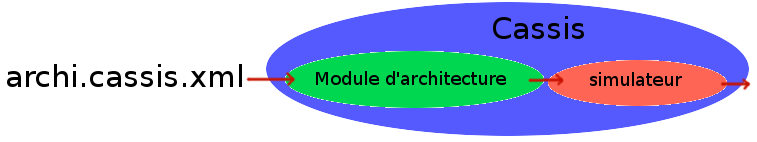
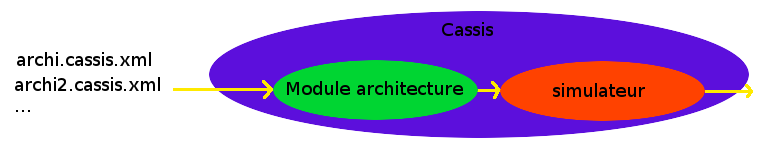
Presentation, partie architecture, modif images et ajout snooping

diff --git a/docs/soutenance/architecture.tex b/docs/soutenance/architecture.tex
@@ -23,7 +23,7 @@
 \end{verbatim}
 
 \begin{figure}[h!]
-  \includegraphics[width=.4\textwidth]{images/archicassis1.png}
+  \includegraphics[width=.6\textwidth]{images/archicassis1.png}
 \end{figure}
 
 Passage d'un fichier xml \emph{Cassis} directement en entrée \\
@@ -32,7 +32,7 @@ Passage d'un fichier xml \emph{Cassis} directement en entrée \\
 \end{verbatim}
 
 \begin{figure}[t!]
-  \includegraphics[width=.4\textwidth]{images/archicassis2.png}
+  \includegraphics[width=.6\textwidth]{images/archicassis2.png}
 \end{figure}
 \end{frame}
 
@@ -73,6 +73,10 @@ Passage d'un fichier xml \emph{Cassis} directement en entrée \\
 
 \begin{frame}
   \frametitle{Snooping entre les caches}
+  
+  \begin{figure}[h!]
+    \includegraphics[width=.8\textwidth]{images/DiagrammeSnooping.png}
+  \end{figure}  
   
 \end{frame}
 
